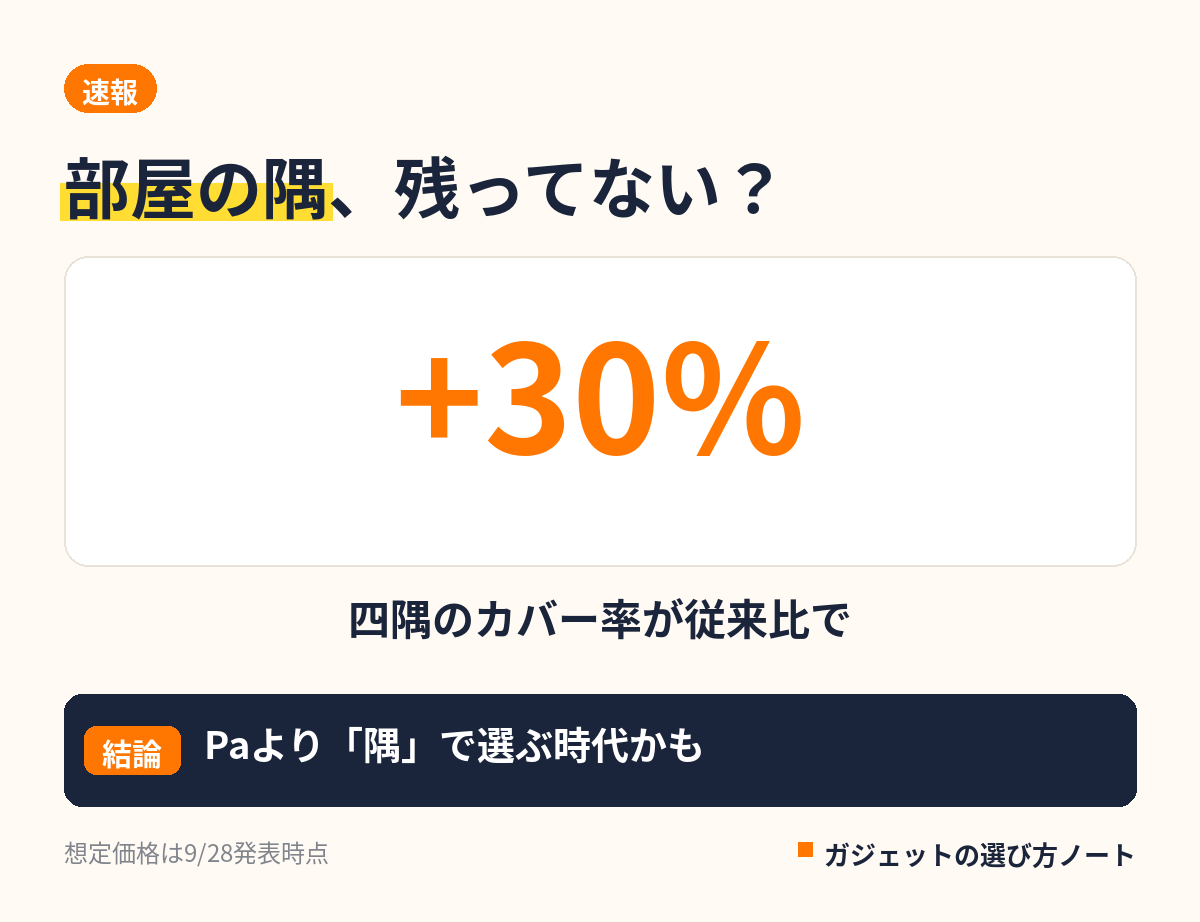
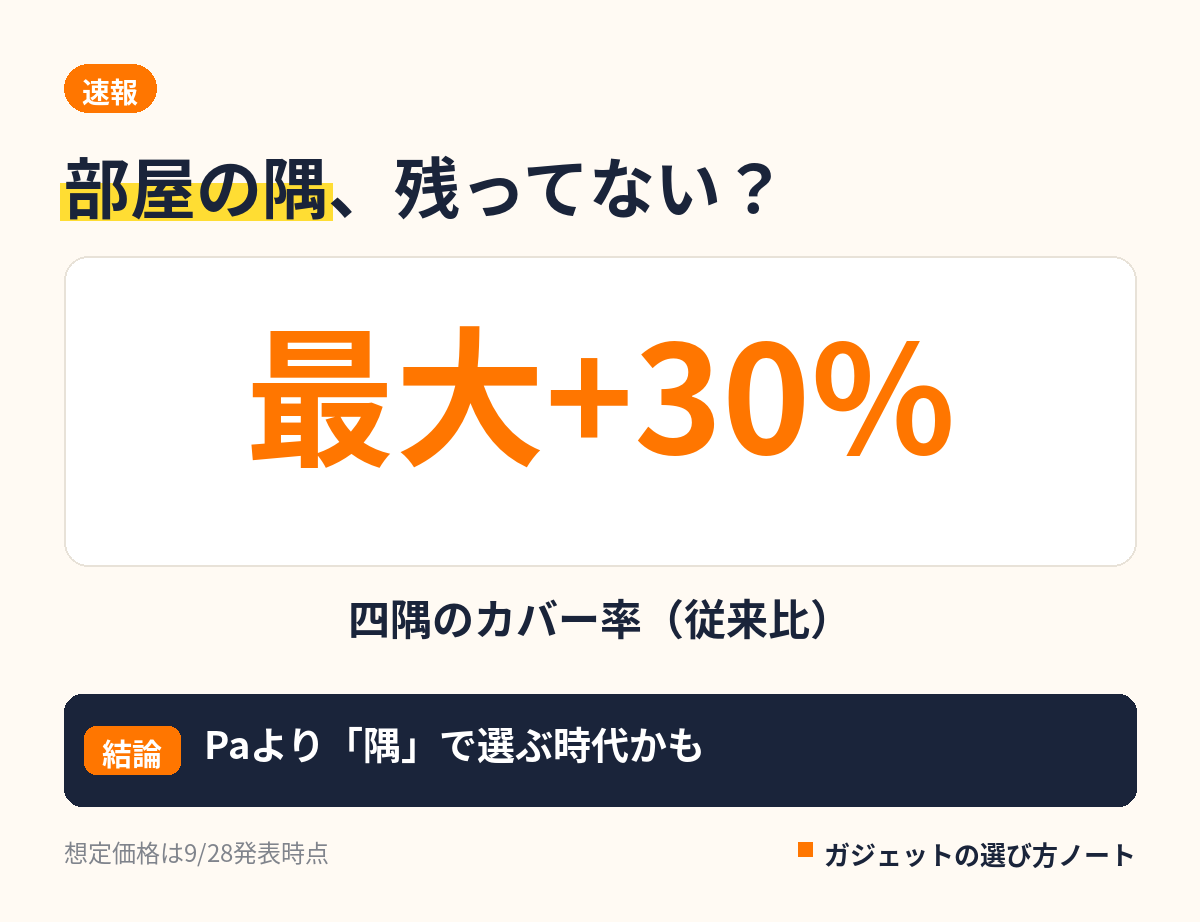
同じメーカーの投稿が続かないよう自動で並べ替え、図解の条件表記を必須に
- 選抜後に topic が連続しないよう並べ替え（直前の投稿待ちも考慮）
- 図解の元データ（image_spec）を保存し、後から直して描き直せるように
- 「最大」「約」などの条件を図解でも省かないルールを追加
- 「+30%」の図解を「最大+30%」に修正、投稿順を並べ替え

Claude-Session: https://claude.ai/code/session_0182d5bVG8S2MfVcaL4zTcUw

Changed region(s): [[0.2158, 0.3341, 0.8017, 0.5163], [0.5242, 0.6377, 0.5858, 0.6985], [0.6783, 0.6377, 0.7092, 0.6985]]

diff --git a/src/generate.py b/src/generate.py
@@ -127,6 +127,7 @@ WRITER_SYSTEM = f"""あなたはガジェット・便利グッズ専門の X ア
 - 本文だけで伝わる投稿、短い投稿、問いかけは none（全体の 3〜4 割は none でよい）
 - 見出し・結論・項目も話し言葉で。カタログのような文言にしない。絵文字は使わない
 - number は「90h → 135h」「倍の400万点」のように変化や驚きがある数字にだけ使う。ただの価格 1 つには使わない
+- 「最大」「約」「想定」などの条件は、図解でも省かない
 - conclusion は事実の繰り返しではなく「だからどうする」の一言（例: 音量いじらないなら下位でOK）
 - table は同じ種類の製品同士だけを並べる（マウスとキーボードを同じ表で比べない）
 - 図解の中身も調査メモの事実だけで作る
@@ -376,8 +377,18 @@ def main() -> int:
         per_topic[key] = per_topic.get(key, 0) + 1
         selected.append(d)
 
+    # 同じ topic の投稿が続かないように並べる（直前の投稿待ちも考慮）
+    last_topic = queued[-1].get("topic", "") if queued else ""
+    ordered: list[Draft] = []
+    pool = selected[:needed]
+    while pool:
+        pick = next((d for d in pool if d.topic != last_topic), pool[0])
+        pool.remove(pick)
+        ordered.append(pick)
+        last_topic = pick.topic
+
     added = 0
-    for d in selected[:needed]:
+    for d in ordered:
         post_id = uuid.uuid4().hex[:12]
         entry = {
             "id": post_id,
@@ -392,6 +403,7 @@ def main() -> int:
         if d.image.kind != "none":
             path = render(d.image.model_dump(), IMAGES_DIR / f"{post_id}.png", tag=d.category)
             entry["image"] = str(path.relative_to(QUEUE_PATH.parent.parent))
+            entry["image_spec"] = d.image.model_dump()  # 後から直して描き直せるように残す
         queue.append(entry)
         added += 1
 
